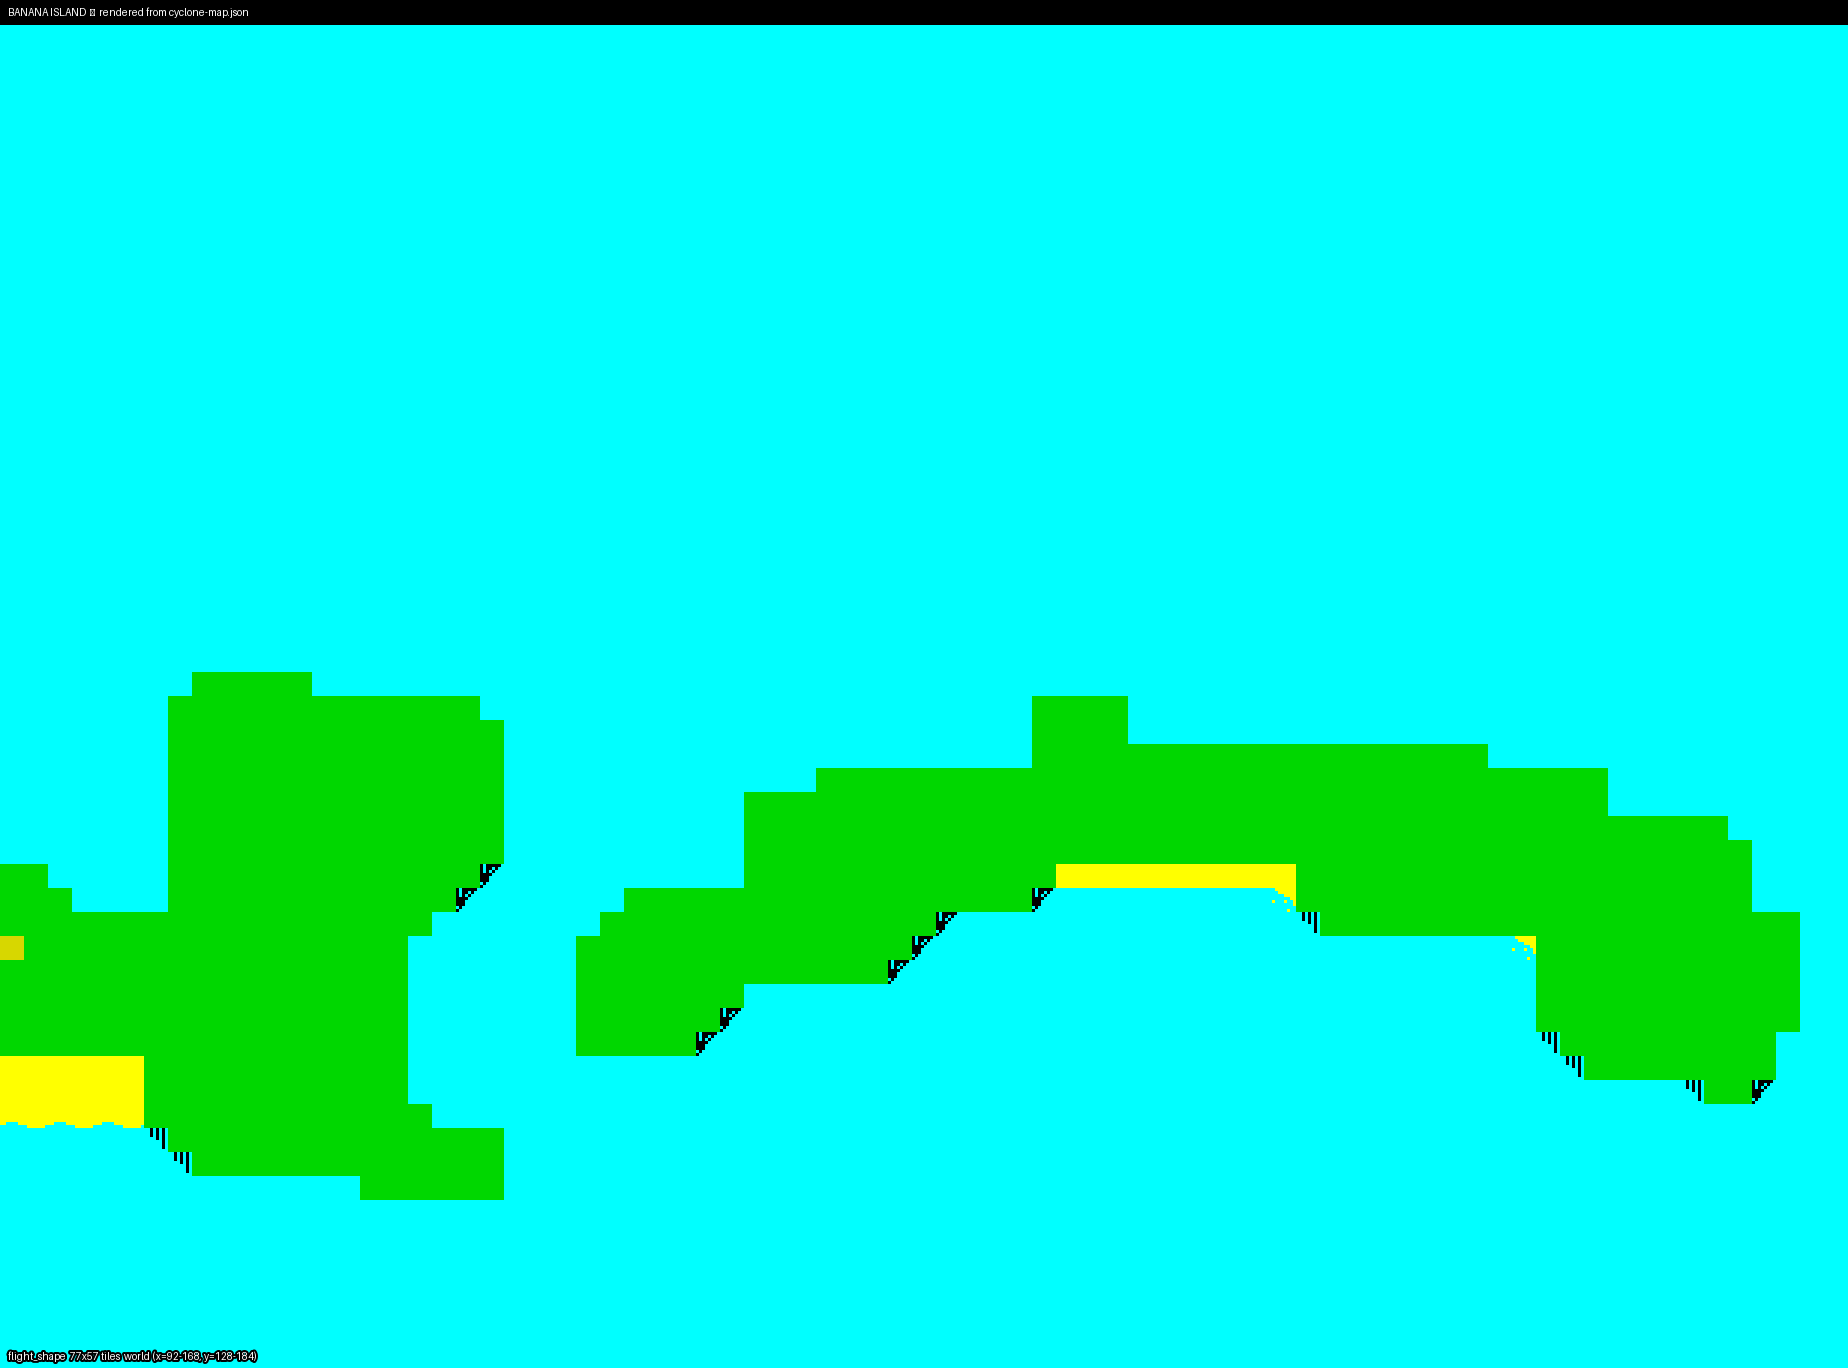
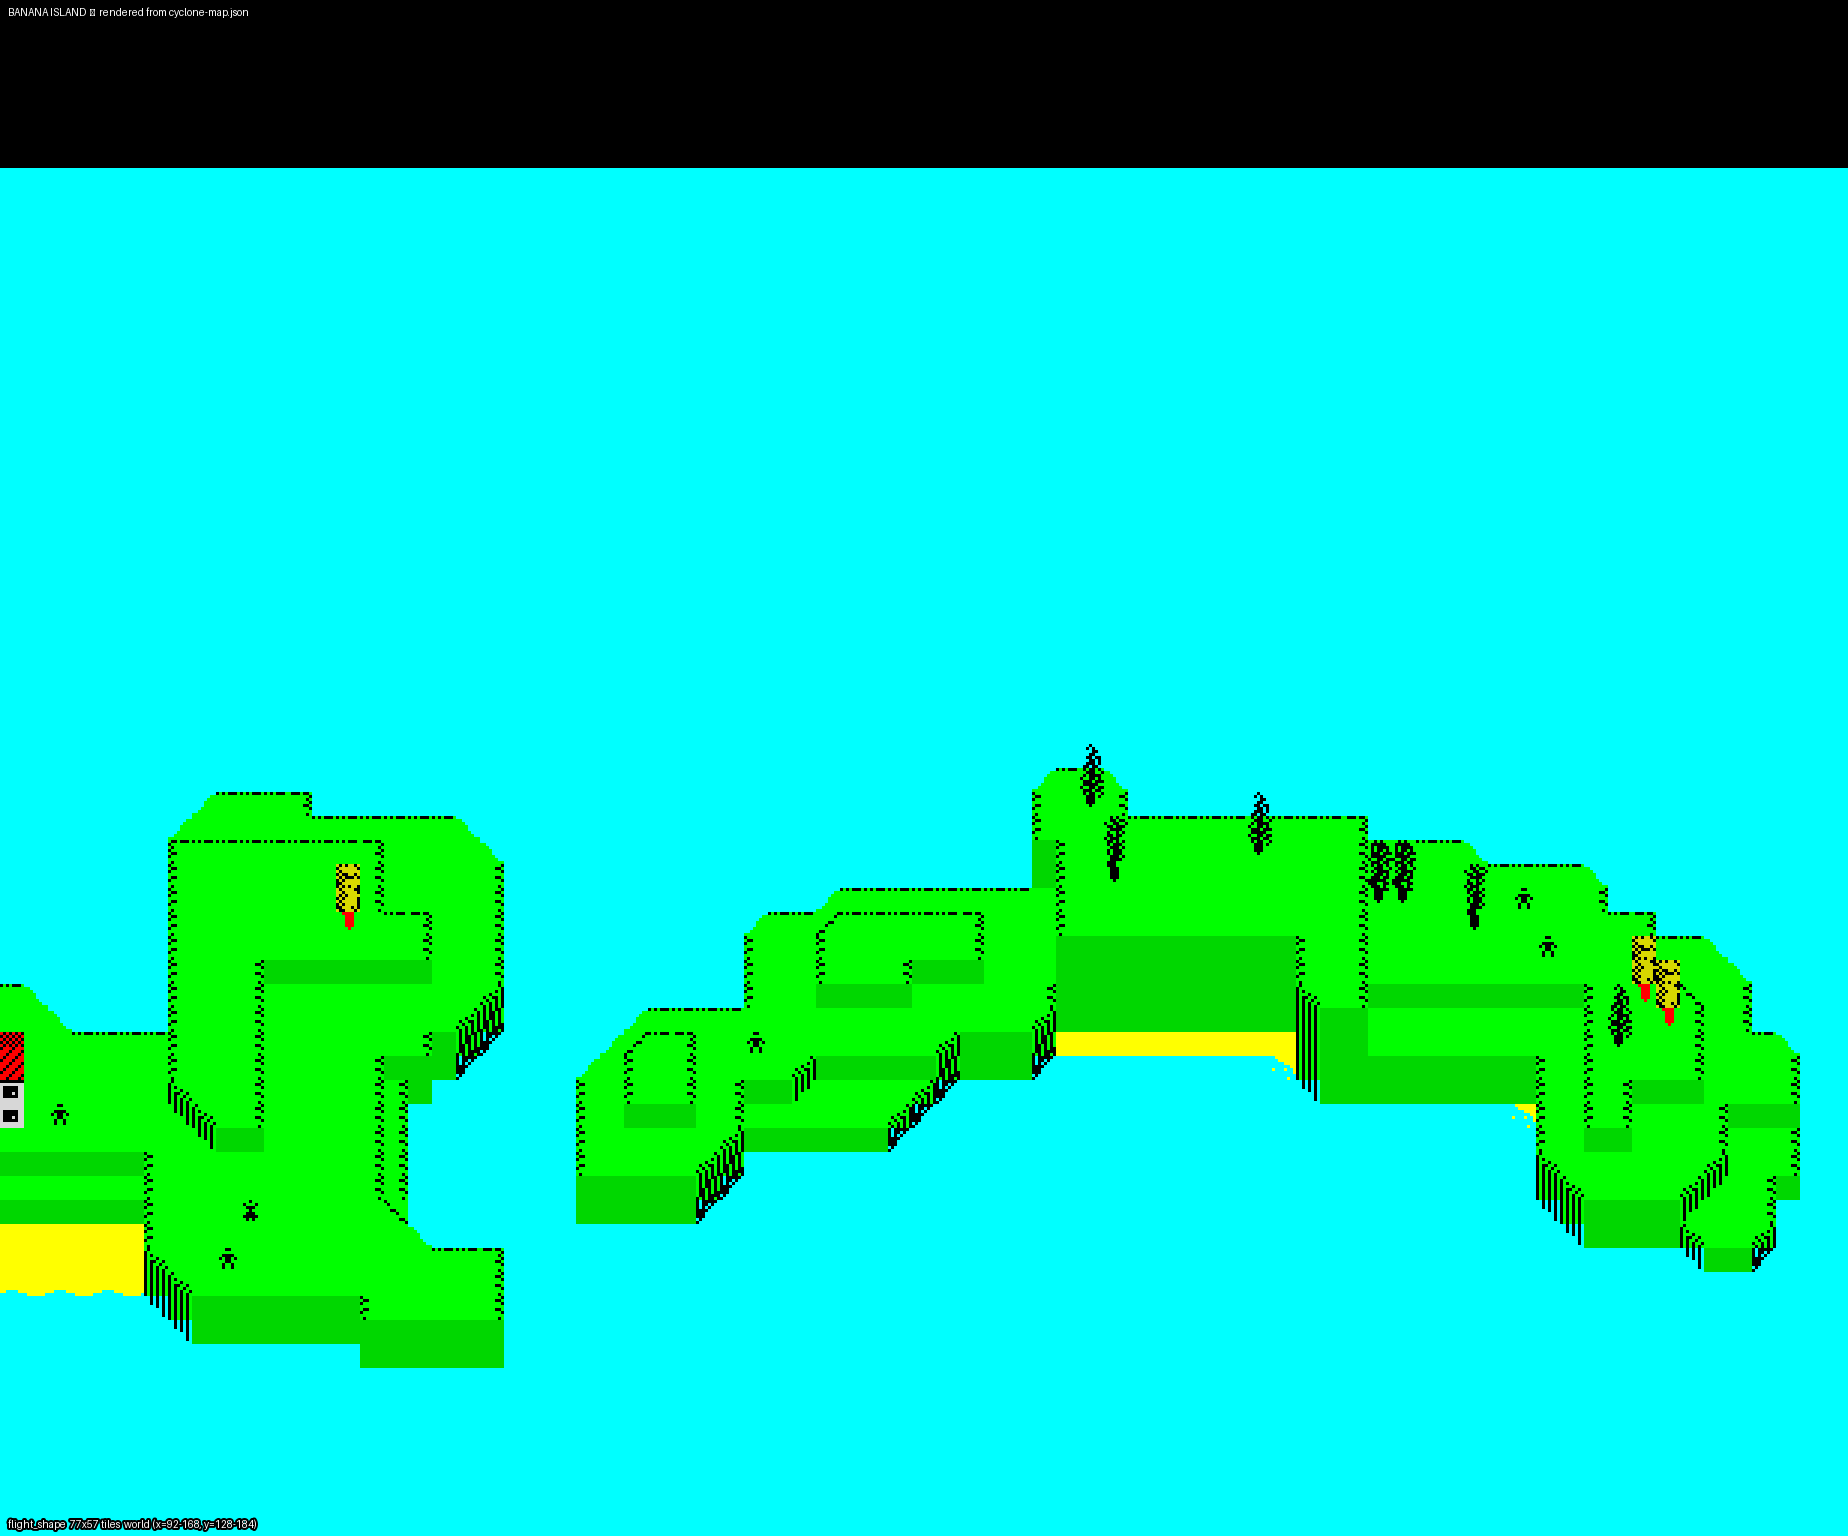
Add tile stacks — render cliffs, buildings, palms, elevation
The full $7E10 algorithm doesn't just translate $F74E once.  Its second
loop walks UPWARD in screen space and pulls successive lookups from
$6300+S, $6400+S, $6500+S, ... up to $FE00+S, until a $FF terminator.
$FE in the stack means "skip this row but keep going".  Each shape
byte therefore expands into a vertical stack of cells, and that's how
the game produces 3D detail: tall cliffs are taller stacks, peaks have
caps, palm trees are top-of-stack features.

extract_map.py now emits tile_stacks[256][] for every shape byte.
render_island_from_json.py applies the full stack — for each (Y, X)
in flight_shape, walks the stack and draws each level offset upward
by one row, matching the engine's write order.

Result: ENTERPRISE and BANANA now show visible cliff faces (black
stripes on green), red-roofed buildings with white walls, palm-tree
clusters, multi-level plateaus, sandy beaches and proper coastlines —
all reproduced from the JSON data alone, no emulator needed.

diff --git a/tools/render_island_from_json.py b/tools/render_island_from_json.py
@@ -51,32 +51,55 @@ def render(json_path: str, island_name: str, scale: int, out_path: str) -> None:
     rows = fs["tiles"]
     H, W = len(rows), len(rows[0])
 
-    img = Image.new("RGB", (W * 8 * scale, H * 8 * scale), (0, 0, 0))
+    # The render pipeline: each shape byte produces a vertical STACK
+    # of cells via lookups at $6300+S, $6400+S, ...  $7E10 walks upward
+    # in screen space (HL -= 23 per step), so the stack stretches UP
+    # the screen.  $FE in the stack means "skip this row but continue".
+    # That's how cliffs and peaks appear: a single shape byte expands
+    # into a tall isometric column.
+    tile_stacks = data["tile_stacks"]
 
-    # Reproduce the in-game render pipeline:
-    #   1. shape byte -> $7E10 translates via tile_lookup[$6300]
-    #   2. translated value -> $762C looks up attribute at $FE00+T
-    #   3. if T < $80: draw bitmap at $FA00+T*8; else solid fill
-    tile_lookup = data["tile_lookup"]
+    # Add headroom above the data so tall stacks aren't clipped at the
+    # top.  Use the longest stack length as a safe margin.
+    max_stack = max((len(tile_stacks[v])
+                    for row in rows for v in row), default=1)
+    canvas_H = H * 8 * scale + max_stack * 8 * scale
+    img = Image.new("RGB", (W * 8 * scale, canvas_H), (0, 0, 0))
 
-    for y, row in enumerate(rows):
-        for x, raw in enumerate(row):
-            idx = tile_lookup[raw]
-            ink, paper = attr_colours(attrs[idx])
-            bitmap_bytes = [0] * 8 if idx >= 0x80 else glyphs[idx]
-            for dy, byte in enumerate(bitmap_bytes):
-                for dx in range(8):
-                    px = ink if byte & (0x80 >> dx) else paper
-                    x0 = (x * 8 + dx) * scale
-                    y0 = (y * 8 + dy) * scale
-                    for sy in range(scale):
-                        for sx in range(scale):
-                            img.putpixel((x0 + sx, y0 + sy), px)
+    def draw_cell(idx: int, sx: int, sy: int) -> None:
+        ink, paper = attr_colours(attrs[idx])
+        bitmap_bytes = [0] * 8 if idx >= 0x80 else glyphs[idx]
+        for dy, byte in enumerate(bitmap_bytes):
+            for dx in range(8):
+                px = ink if byte & (0x80 >> dx) else paper
+                x0 = (sx + dx) * scale
+                y0 = (sy + dy) * scale
+                if 0 <= y0 < canvas_H:
+                    for sy_ in range(scale):
+                        for sx_ in range(scale):
+                            img.putpixel((x0 + sx_, y0 + sy_), px)
+
+    # Draw cells back-to-front (top of screen first) so closer cells
+    # overwrite farther ones — same write order as the game engine
+    # ($7E10 walks UP from the base position).
+    for y in range(H):
+        for x, raw in enumerate(rows[y]):
+            stack = tile_stacks[raw]
+            for level, entry in enumerate(stack):
+                if entry["skip"]:
+                    continue
+                idx = entry["tile"]
+                sx = x * 8
+                # Base cell is at y * 8; each stack level moves UP
+                # one row (sy decreases).  Add max_stack offset so
+                # tall stacks fit on the canvas.
+                sy = (y - level) * 8 + max_stack * 8
+                draw_cell(idx, sx, sy)
 
     # Title bar
     draw = ImageDraw.Draw(img)
     title = f"{island_name}  —  rendered from cyclone-map.json"
-    draw.rectangle([0, 0, img.width - 1, 24], fill=(0, 0, 0))
+    draw.rectangle([0, 0, img.width - 1, 28], fill=(0, 0, 0))
     draw.text((8, 6), title, fill=(255, 255, 255))
     info = (f"flight_shape  {W}x{H} tiles  "
             f"world (x={fs['world_x_range'][0]}-{fs['world_x_range'][1]}, "

diff --git a/tools/extract_map.py b/tools/extract_map.py
@@ -333,6 +333,23 @@ def extract(snapshot_path: str) -> dict:
     # if rendered_tile < $80 (else solid attribute fill).
     tile_lookup = list(at(TILE_LOOKUP, TILE_LOOKUP_LEN))
 
+    # Vertical-stack lookup tables at $6300, $6400, $6500, ... up to $FE00.
+    # #R$7E10's second loop walks upward in screen space, looking up each
+    # shape byte at successive pages: $6300+S becomes the bottom cell,
+    # $6400+S the cell one row above, and so on.  $FF terminates the
+    # stack; $FE means "skip this row but keep going".  This is how the
+    # engine produces the 3D appearance of cliffs and peaks: a single
+    # shape byte expands into a tall column.
+    tile_stacks = []
+    for s in range(256):
+        stack = []
+        for page in range(0x63, 0xFE):
+            v = at((page << 8) | s, 1)[0]
+            if v == 0xFF:
+                break
+            stack.append({"tile": v, "skip": v == 0xFE})
+        tile_stacks.append(stack)
+
     return {
         "source": snapshot_path,
         "game": "Cyclone (Vortex Software, 1985)",
@@ -379,6 +396,7 @@ def extract(snapshot_path: str) -> dict:
         "glyph_categories": glyph_categories,
         "tile_attributes": attributes,
         "tile_lookup": tile_lookup,
+        "tile_stacks": tile_stacks,
         "render_pipeline": {
             "step_1": "shape_data → $F74E (LDIR copies 23 bytes/row * N rows from shape_base, with 128-byte Y stride)",
             "step_2": "$7E10: $F74E[i] = tile_lookup[$F74E[i]]  — translates shape bytes via the 256-byte table at $6300",
